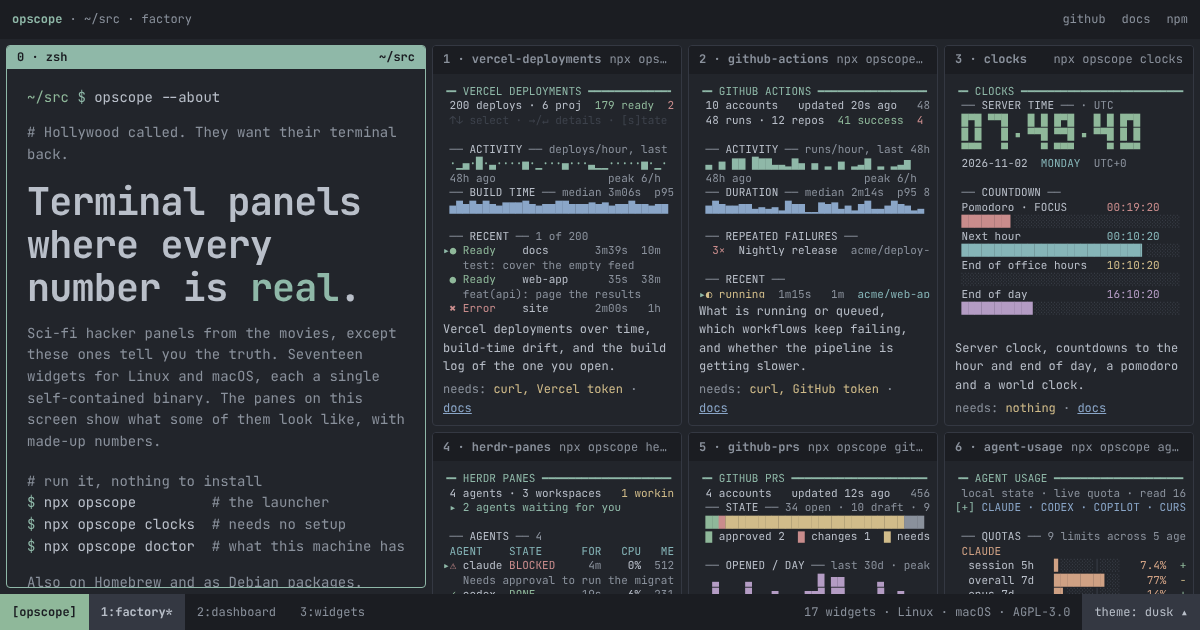
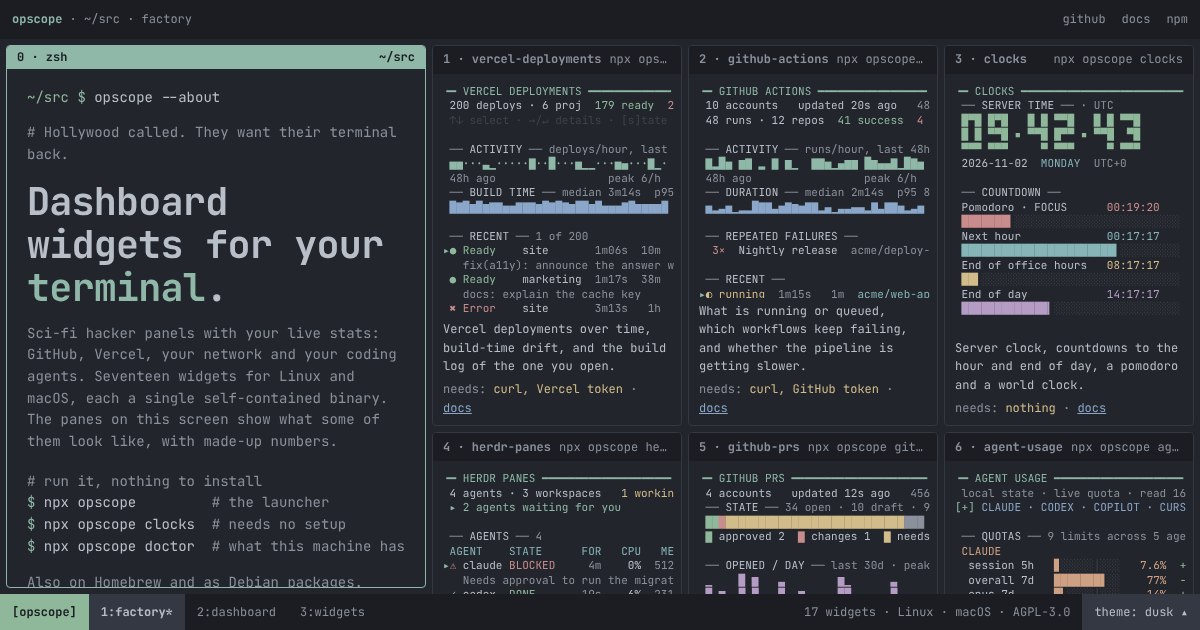
feat: headline "Dashboard widgets for your terminal."
The user wanted plain words (widgets, dashboard, stats, terminal) over
"Terminal panels where every number is real.". The headline, the first
body sentence, the page title and description, the shell's `about` and
the Open Graph image (a fresh 1200x630 screenshot) all say it now.

Claude-Session: https://claude.ai/code/session_01KVgNwsQTtxqDwoFgfj4k7D

diff --git a/src/scripts/shell.ts b/src/scripts/shell.ts
@@ -285,7 +285,7 @@ export async function startShell() {
 
 	const about = () => {
 		line(paint('# Hollywood called. They want their terminal back.', 'mu'));
-		line(`Sci-fi hacker panels, except every number on them is ${paint('real', 'acc')}.`);
+		line(`Dashboard widgets for your ${paint('terminal', 'acc')}: live stats in sci-fi hacker panels.`);
 		line(`${widgets.length} widgets for Linux and macOS. ${paint('ls', 'acc')} to see them.`);
 	};
 
